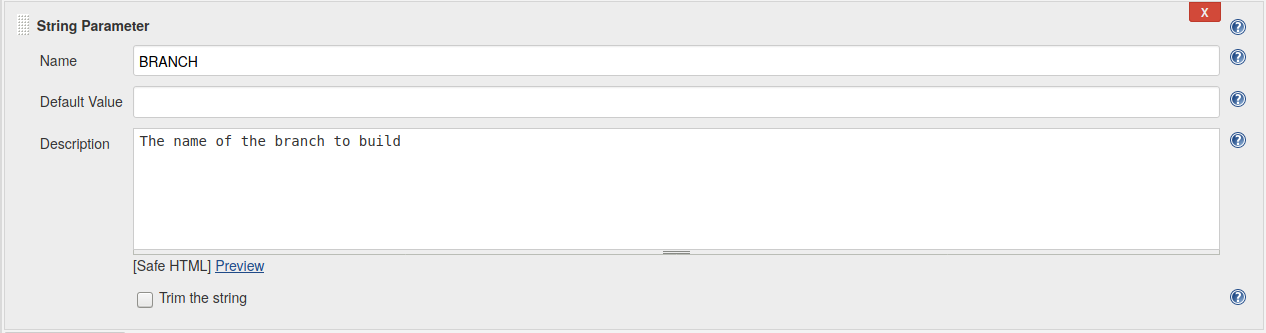
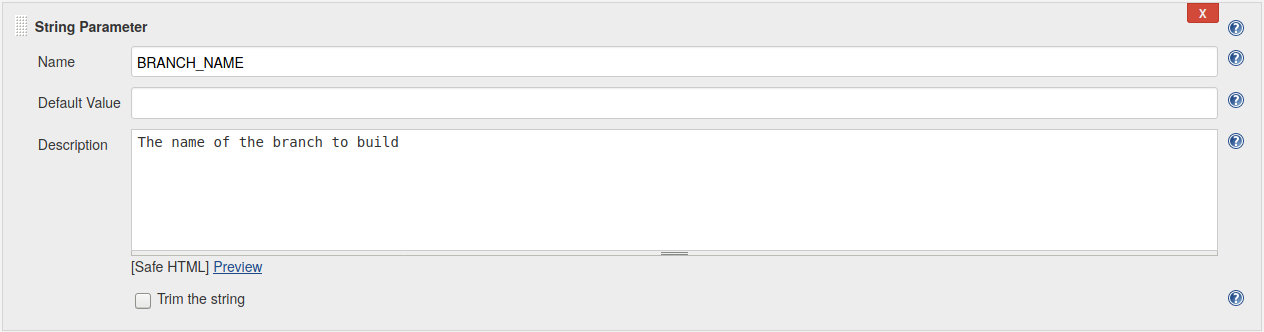
Rename Jenkins parameter BRANCH -> BRANCH_NAME

diff --git a/documentation/smg/08_setting_up_jenkins_ci.md b/documentation/smg/08_setting_up_jenkins_ci.md
@@ -127,7 +127,7 @@ and should be prefixed with `PR-` if the pipeline is building pull requests. E.g
 
 **For branch builds:**
 
-  - Add a new string parameter called `BRANCH`, leave the default blank
+  - Add a new string parameter called `BRANCH_NAME`, leave the default blank
 
   <img src="./images/08_branch_parameter.png">
 
